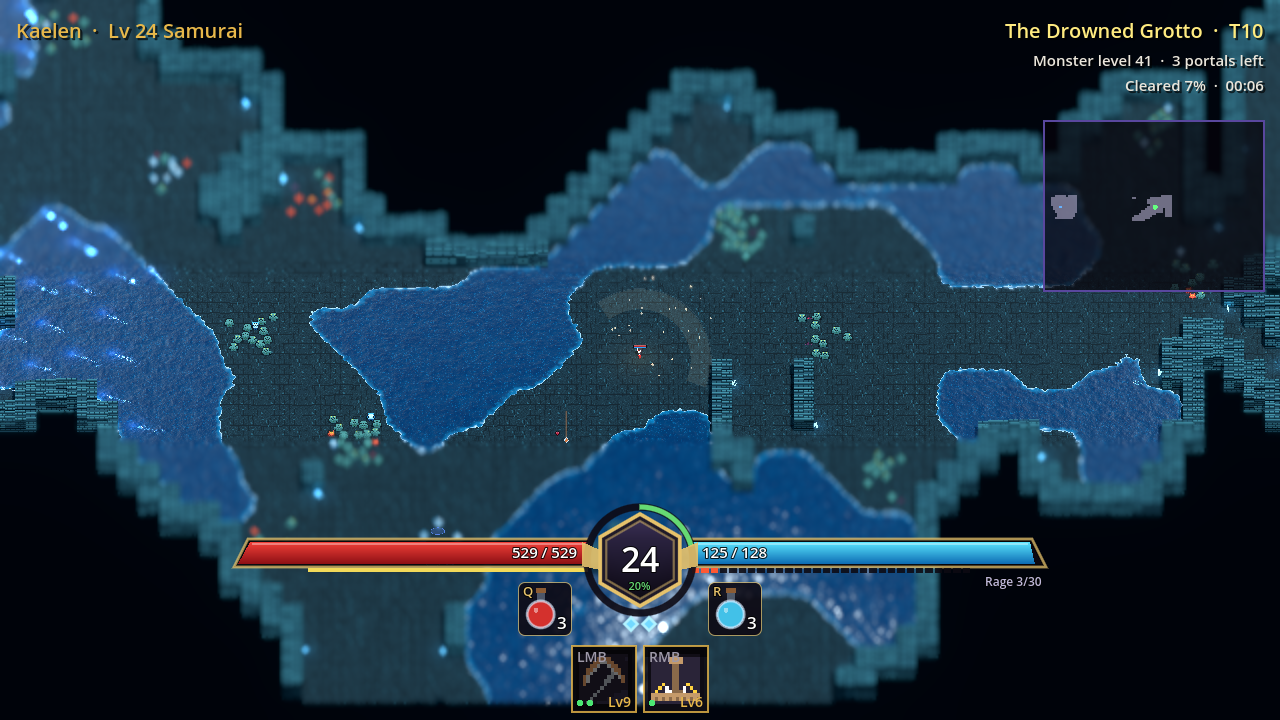
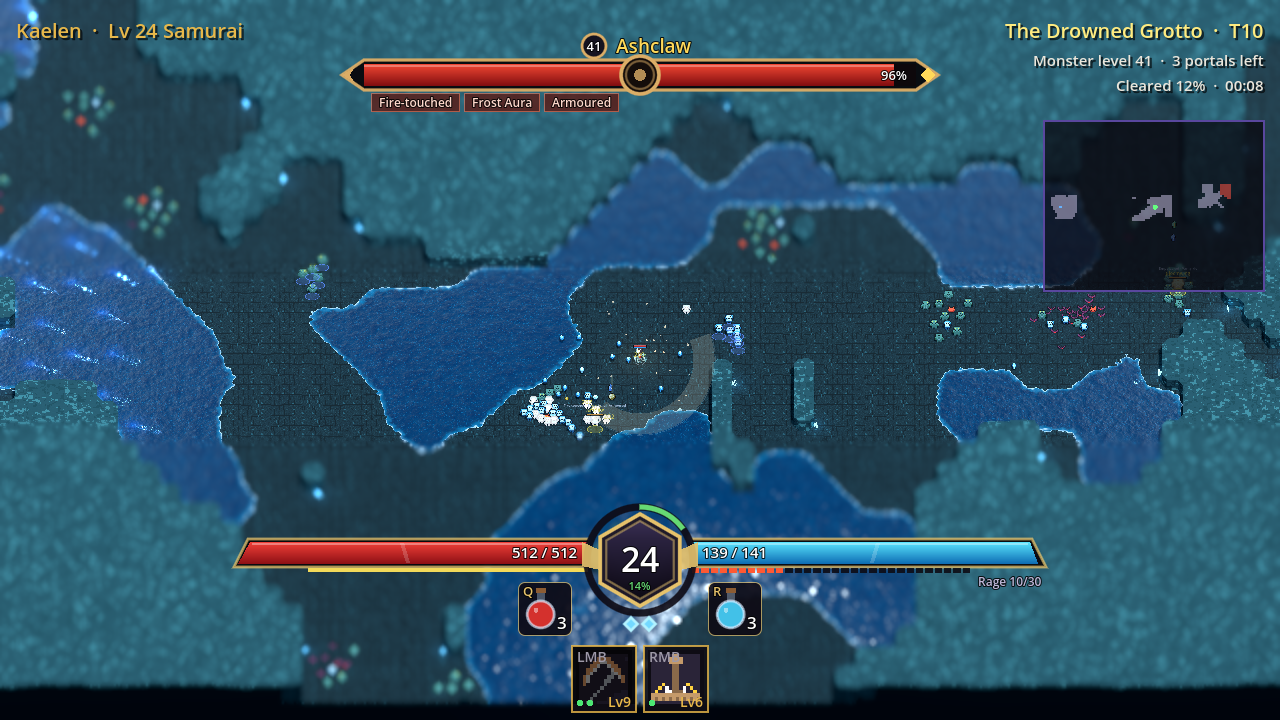
Cave walls: one rock mesh instead of a brick block per cell
The cavern walls read as separate cubes: every wall cell was the brick
block with its own random height, so curves (the boss arena's ring)
were staircases. CaveWalls builds one mesh by marching squares over the
cell centres (straight walls stay on the cell edge, corners are cut on
the diagonal), with heights from a continuous noise field and a
world-space rock shader using each theme's wall palette. Every non-floor
cell of the map is rock, so the black pits inside the rock are gone.
Room layouts keep their bricks. RunCapture --only=caves also shoots the
arena entrance.

Claude-Session: https://claude.ai/code/session_017oVxMuiyGo7J29bWNRcSYW

diff --git a/scripts/View3D/VoxelStage.cs b/scripts/View3D/VoxelStage.cs
@@ -244,7 +244,6 @@ public partial class VoxelStage : Node3D
         var liquidCells = new Dictionary<Vector2I, Transform3D>();
         var floorCells = new Dictionary<Vector2I, Vector3>();
         var wallCells = new HashSet<Vector2I>();
-        var heights = Caverns ? new FastNoiseLite { Seed = 7, Frequency = 0.12f } : null;
         foreach (Vector2I cell in map.GetUsedCells(0))
         {
             Vector2I atlas = map.GetCellAtlasCoords(0, cell);
@@ -266,15 +265,23 @@ public partial class VoxelStage : Node3D
             }
 
             Transform3D placed = new(basis, at);
-            if (piece == "wall" && heights is not null)
+            if (piece == "wall" && Caverns)
             {
-                // Cave rock: uneven heights (smooth swells plus a little jitter per block).
-                float jitter = ((cell.X * 73856093) ^ (cell.Y * 19349663)) % 100 / 100f;
-                float rise = 0.72f + 0.6f * (heights.GetNoise2D(cell.X, cell.Y) * 0.5f + 0.5f) + 0.12f * Mathf.Abs(jitter);
-                placed = new Transform3D(basis.Scaled(new Vector3(1f, rise, 1f)), at);
+                // Cave rock is one mesh (CaveWalls, built below), not a block per
+                // cell; the cell gets a floor under it for the chamfered corners.
+                string under = $"floor{Mathf.Abs(cell.X * 7 + cell.Y * 13) % 2}";
+                if (!byPiece.TryGetValue(under, out List<Transform3D>? unders))
+                {
+                    byPiece[under] = unders = new List<Transform3D>();
+                }
+
+                unders.Add(placed);
+            }
+            else
+            {
+                list.Add(placed);
             }
 
-            list.Add(placed);
             if (piece.StartsWith("floor"))
             {
                 floorCells[cell] = at;
@@ -301,6 +308,11 @@ public partial class VoxelStage : Node3D
 
                 beds.Add(new Transform3D(basis, at));
             }
+        }
+
+        if (Caverns && wallCells.Count > 0 && pieces.TryGetValue("wall", out Mesh? rockSource))
+        {
+            created.Add(AddCaveRock(map, wallCells, rockSource));
         }
 
         foreach ((string piece, List<Transform3D> transforms) in byPiece)
@@ -485,7 +497,7 @@ public partial class VoxelStage : Node3D
         {
             foreach (Node n in old)
             {
-                if (n is MultiMeshInstance3D mm && mm.Multimesh?.Mesh is ArrayMesh mesh)
+                if (((n as MultiMeshInstance3D)?.Multimesh?.Mesh ?? (n as MeshInstance3D)?.Mesh) is ArrayMesh mesh)
                 {
                     for (int s = 0; s < mesh.GetSurfaceCount(); s++)
                     {
@@ -501,6 +513,68 @@ public partial class VoxelStage : Node3D
         }
 
         BuildTerrain(map);
+    }
+
+    /// <summary>
+    /// A cavern's walls as one rock mesh (<see cref="CaveWalls"/>, docs/design/art-pipeline.md
+    /// -> "Cave walls"): heights from a continuous noise field around the tile wall's
+    /// height, coloured by voxel_rock.gdshader from the tileset wall's own palette
+    /// (its darkest, middle and lightest colours), so each theme keeps its stone.
+    /// </summary>
+    private MeshInstance3D AddCaveRock(TileMap map, HashSet<Vector2I> wallCells, Mesh wallMesh)
+    {
+        Vector3 origin = Ground(map.ToGlobal(map.MapToLocal(Vector2I.Zero)));
+        Vector3 ex = Ground(map.ToGlobal(map.MapToLocal(Vector2I.Right))) - origin;
+        Vector3 ey = Ground(map.ToGlobal(map.MapToLocal(Vector2I.Down))) - origin;
+        float tileMeters = map.TileSet.TileSize.X * map.GlobalScale.X / PixelsPerMeter;
+        float baseHeight = Mathf.Max(0.5f, wallMesh.GetAabb().End.Y) * tileMeters;
+        var swell = new FastNoiseLite { Seed = 7, Frequency = 0.12f };
+        var grain = new FastNoiseLite { Seed = 11, Frequency = 0.6f };
+        float Height(Vector2 p) =>
+            baseHeight * (0.75f + 0.55f * (swell.GetNoise2D(p.X, p.Y) * 0.5f + 0.5f) + 0.1f * grain.GetNoise2D(p.X, p.Y));
+
+        // Every cell of the map's rectangle that is not open ground is rock — the
+        // empty cells the rasteriser leaves deep inside the rock too, which used to
+        // show as black pits — so the cave reads as carved out of one mass.
+        var open = new HashSet<Vector2I>(map.GetUsedCells(0));
+        open.ExceptWith(wallCells);
+        Rect2I bounds = map.GetUsedRect();
+        var rock = new HashSet<Vector2I>(wallCells);
+        for (int x = bounds.Position.X; x < bounds.End.X; x++)
+        {
+            for (int y = bounds.Position.Y; y < bounds.End.Y; y++)
+            {
+                var c = new Vector2I(x, y);
+                if (!open.Contains(c))
+                {
+                    rock.Add(c);
+                }
+            }
+        }
+
+        ArrayMesh mesh = CaveWalls.Build(rock, p => origin + ex * p.X + ey * p.Y, Height);
+
+        var palette = new List<Color>();
+        for (int s = 0; s < wallMesh.GetSurfaceCount(); s++)
+        {
+            if (wallMesh.SurfaceGetMaterial(s) is BaseMaterial3D bm)
+            {
+                palette.Add(bm.AlbedoColor);
+            }
+        }
+
+        palette.Sort((a, b) => a.Luminance.CompareTo(b.Luminance));
+        Color mid = palette.Count > 0 ? palette[palette.Count / 2] : _wallColor;
+        var material = new ShaderMaterial { Shader = GD.Load<Shader>("res://resources/shaders/voxel_rock.gdshader") };
+        material.SetShaderParameter("albedo", mid);
+        material.SetShaderParameter("albedo_dark", palette.Count > 0 ? palette[0] : mid.Darkened(0.4f));
+        material.SetShaderParameter("albedo_light", palette.Count > 0 ? palette[^1] : mid.Lightened(0.25f));
+        mesh.SurfaceSetMaterial(0, material);
+        _wallMaterials.Add(material);
+        _wallColor = mid;
+        var instance = new MeshInstance3D { Mesh = mesh, Name = "Terrain_rock", CastShadow = GeometryInstance3D.ShadowCastingSetting.On };
+        World.AddChild(instance);
+        return instance;
     }
 
     /// <summary>Copies the wall mesh with the dithering wall shader on every colour surface.</summary>

diff --git a/scripts/View3D/CaveWalls.cs b/scripts/View3D/CaveWalls.cs
@@ -1,0 +1,156 @@
+#nullable enable
+using System;
+using System.Collections.Generic;
+using Godot;
+
+namespace ArpgGame.View3D;
+
+/// <summary>
+/// One continuous rock mesh for a cavern's walls — docs/design/art-pipeline.md ->
+/// "Cave walls". The tile walls were a brick block per cell with its own height,
+/// so curves (the boss arena's ring above all) read as a staircase of separate
+/// cubes. Here the wall cells go through marching squares over the cell centres:
+/// a straight wall still ends exactly on the cell edge (where its collision is),
+/// a convex corner is cut on the diagonal and an inside corner filled, so a
+/// curve becomes one chamfered face. Heights come from a continuous field
+/// (shared corners, no steps), and the rock shader colours it in world space,
+/// so there are no seams per block.
+/// </summary>
+public static class CaveWalls
+{
+    /// <summary>
+    /// Builds the mesh. <paramref name="ground"/> maps fractional cell coordinates
+    /// (cell centres at integers) to a ground point; <paramref name="height"/>
+    /// gives the rock's height there. Cells outside <paramref name="walls"/> are open.
+    /// </summary>
+    public static ArrayMesh Build(HashSet<Vector2I> walls, Func<Vector2, Vector3> ground, Func<Vector2, float> height)
+    {
+        var st = new SurfaceTool();
+        st.Begin(Mesh.PrimitiveType.Triangles);
+        if (walls.Count == 0)
+        {
+            return new ArrayMesh();
+        }
+
+        int minX = int.MaxValue, minY = int.MaxValue, maxX = int.MinValue, maxY = int.MinValue;
+        foreach (Vector2I c in walls)
+        {
+            minX = Math.Min(minX, c.X);
+            minY = Math.Min(minY, c.Y);
+            maxX = Math.Max(maxX, c.X);
+            maxY = Math.Max(maxY, c.Y);
+        }
+
+        // Corners of a square, in order around it: (0,0) (1,0) (1,1) (0,1).
+        Vector2I[] offsets = { new(0, 0), new(1, 0), new(1, 1), new(0, 1) };
+        var poly = new List<(Vector2 P, bool Mid)>(8);
+        for (int x = minX - 1; x <= maxX; x++)
+        {
+            for (int y = minY - 1; y <= maxY; y++)
+            {
+                var origin = new Vector2I(x, y);
+                int count = 0;
+                for (int i = 0; i < 4; i++)
+                {
+                    if (walls.Contains(origin + offsets[i]))
+                    {
+                        count++;
+                    }
+                }
+
+                if (count == 0)
+                {
+                    continue;
+                }
+
+                // The wall part of this square: walk its corners, keeping wall corners
+                // and the midpoints of edges where wall meets open. Every case comes out
+                // convex (a diagonal pair joins into a hexagon: the rock stays one piece).
+                poly.Clear();
+                for (int i = 0; i < 4; i++)
+                {
+                    Vector2I a = origin + offsets[i];
+                    Vector2I b = origin + offsets[(i + 1) % 4];
+                    bool wa = walls.Contains(a);
+                    if (wa)
+                    {
+                        poly.Add((a, false));
+                    }
+
+                    if (wa != walls.Contains(b))
+                    {
+                        poly.Add(((Vector2)(a + b) / 2f, true));
+                    }
+                }
+
+                Vector2 centre = Vector2.Zero;
+                foreach ((Vector2 p, _) in poly)
+                {
+                    centre += p;
+                }
+
+                centre /= poly.Count;
+                Vector3 centre3 = ground(centre);
+
+                // Top: a fan, each triangle lit flat (faceted rock).
+                for (int i = 1; i < poly.Count - 1; i++)
+                {
+                    Vector3 p0 = Top(poly[0].P);
+                    Vector3 p1 = Top(poly[i].P);
+                    Vector3 p2 = Top(poly[i + 1].P);
+                    Vector3 n = (p1 - p0).Cross(p2 - p0).Normalized();
+                    if (n.Y < 0f)
+                    {
+                        n = -n;
+                    }
+
+                    Tri(st, p0, p1, p2, n);
+                }
+
+                // Sides: every edge between two midpoints is a stretch of contour.
+                for (int i = 0; i < poly.Count; i++)
+                {
+                    (Vector2 a, bool am) = poly[i];
+                    (Vector2 b, bool bm) = poly[(i + 1) % poly.Count];
+                    if (!am || !bm)
+                    {
+                        continue;
+                    }
+
+                    Vector3 ga = ground(a);
+                    Vector3 gb = ground(b);
+                    Vector3 along = gb - ga;
+                    var n = new Vector3(along.Z, 0f, -along.X).Normalized();
+                    if (n.Dot((ga + gb) / 2f - centre3) < 0f)
+                    {
+                        n = -n;
+                    }
+
+                    Vector3 ta = Top(a);
+                    Vector3 tb = Top(b);
+                    Tri(st, ga, gb, tb, n);
+                    Tri(st, ga, tb, ta, n);
+                }
+            }
+        }
+
+        return st.Commit();
+
+        Vector3 Top(Vector2 p) => ground(p) + new Vector3(0f, height(p), 0f);
+    }
+
+    private static void Tri(SurfaceTool st, Vector3 a, Vector3 b, Vector3 c, Vector3 n)
+    {
+        // Wind each triangle so its front faces along the normal.
+        if ((b - a).Cross(c - a).Dot(n) > 0f)
+        {
+            (b, c) = (c, b);
+        }
+
+        foreach (Vector3 v in new[] { a, b, c })
+        {
+            st.SetNormal(n);
+            st.AddVertex(v);
+        }
+    }
+}

diff --git a/scripts/tools/RunCapture.cs b/scripts/tools/RunCapture.cs
@@ -622,6 +622,16 @@ public partial class RunCapture : Node
                 await Snap($"cave-{name}-liquid.png");
             }
 
+            // The boss arena's entrance: the wall ring curves around the gate.
+            if (reality.Raster.Gate.Count > 0)
+            {
+                Vector2I g = reality.Raster.Gate[reality.Raster.Gate.Count / 2];
+                Vector2 away = ((Vector2)(g - reality.Raster.BossCell)).Normalized();
+                reality.Player.GlobalPosition = RasterLayout.World(g) + away * 120f;
+                await Wait(2.0f);
+                await Snap($"cave-{name}-gate.png");
+            }
+
             var camera = reality.Player.GetNode<Camera2D>("Camera2D");
             reality.Player.GlobalPosition = RasterLayout.World(middle);
             Vector2 zoom = camera.Zoom;

diff --git a/CLAUDE.md b/CLAUDE.md
@@ -44,7 +44,7 @@ Godot game project. This file orients any agent (or future-you) working here.
 - `scripts/run_all_tests.sh [filter]` — builds C#, runs every `scenes/tests/*.tscn` headless, judges by the `RESULT:` line (never by exit codes or absence of FAIL), kills leftovers between runs.
 - `scripts/autoplay.sh --runs=3 [--skill=spark] [--report=30]` — the autoplay bot plays full runs headless at ~3× speed for balance work; lines are mirrored to `user://autoplay.log` (stdout is block-buffered). `--mode=reality --class=warrior|rogue|arcanist --tier=1 [--level=N|auto] [--gear=typical|none] [--layouts=id,id] --runs=6` plays Altered Realities back to back with an in-memory character (the real profile is untouched); `--gear=typical` (default) makes it the reference character of `MonsterScaling` (gems, supports, ascendancy, rare gear for the tier) and each reality logs a `ttk` line (time to kill per monster rarity) — the numbers the monster life table is calibrated against.
 - Tests that can hang at shutdown mirror their lines to `user://test_results/<Name>.txt`; `run_all_tests.sh` reads that file too (see `EndgameSmokeTest`).
-- `scenes/tools/RunCapture.tscn` — scripted windowed run that saves devlog/PR screenshots (menu, skill pick, mid-run, level-up, pause, both bosses and their mechanics, results). `-- --only=endgame` captures character select/create, hideout, Mirror, skills/tree/altar panels, all three realities and Nereth's mechanics with demo characters; `--only=crafting` the merchant, the inventory's Crafting tab and seal, the bench tabs and the tooltip with/without Alt; `--only=town` the hideout town's quarters, an overview, Ysolde's shop and the three edit-mode tools.; `--only=update` the Rift HUD, power-ups, endless phase and results, Arehucaz, the Mirror jewels and liquids; `--only=caves` each cavern style in game (entrance, liquid, overview), the hideout canal and the loading screen; `--only=layouts` (works headless) top-down sheets of four seeds per cavern style.
+- `scenes/tools/RunCapture.tscn` — scripted windowed run that saves devlog/PR screenshots (menu, skill pick, mid-run, level-up, pause, both bosses and their mechanics, results). `-- --only=endgame` captures character select/create, hideout, Mirror, skills/tree/altar panels, all three realities and Nereth's mechanics with demo characters; `--only=crafting` the merchant, the inventory's Crafting tab and seal, the bench tabs and the tooltip with/without Alt; `--only=town` the hideout town's quarters, an overview, Ysolde's shop and the three edit-mode tools.; `--only=update` the Rift HUD, power-ups, endless phase and results, Arehucaz, the Mirror jewels and liquids; `--only=caves` each cavern style in game (entrance, liquid, the boss arena entrance, overview), the hideout canal and the loading screen; `--only=layouts` (works headless) top-down sheets of four seeds per cavern style.
 - `.github/workflows/release.yml` + `tools/launcher/` — releases and the Windows launcher (see `docs/design/distribution.md`). Every push to `main` publishes a version automatically; a `v*` tag publishes that exact version (cloud sessions can't push tags: the git proxy only allows the session branch). The launcher is a separate .NET Framework 4.8 project (`ArpgGame.csproj` excludes `tools/**`); build it with `dotnet build tools/launcher -c Release`.
 - Launcher art: `cd tools/art && npx tsx launcher.ts` regenerates `tools/launcher/Assets/{background.png,icon.ico}` (embedded in the exe).
 - `tools/art/` — the EasyPixel art pipeline (see `docs/design/art-pipeline.md`): `npm install && npm run setup && npm run build`; `npx tsx voxels.ts` exports the voxel models (`assets/voxels/`) used by the HD-2D view — re-run it (then re-import) whenever sprites or tilesets change.

diff --git a/docs/design/art-pipeline.md b/docs/design/art-pipeline.md
@@ -221,6 +221,38 @@ vulkan`); the Compatibility renderer works but drops shadows, glow and DOF.
 overlays re-projected; per-voxel destructible walls (today walls only shed chips);
 hand-authored voxel props (`slices` mode) for the hideout and realities.
 
+### Cave walls **[IMPLEMENTED 2026-10-15]**
+
+Owner feedback: the cavern walls "don't join up — each block looks like its own
+piece, worst on curves like the boss entrance". They were the tileset's brick
+wall block, one per wall cell, each with its own random height: the tops
+stepped, every block drew its own mortar edges, and a diagonal (the arena's
+ring) became a staircase of cubes.
+
+Caverns now build their walls as **one rock mesh** (`CaveWalls`,
+scripts/View3D/CaveWalls.cs; `VoxelStage.AddCaveRock`):
+
+- **Outline by marching squares** over the cell centres. A straight wall still
+  ends exactly on the cell edge, where its collision is; a convex corner is cut
+  on the diagonal and an inside corner filled, so curves read as one chamfered
+  face (the floor is drawn under wall cells for the cut corners). A diagonal
+  pair of rock cells joins into one piece.
+- **Heights from a continuous field** (two noise octaves around the tile wall's
+  height) sampled at the vertices, so neighbouring pieces share their edges —
+  no steps. The tops are lit flat per triangle: faceted rock.
+- **Solid mass**: every cell of the map's rectangle that isn't open ground is
+  rock, including the empty cells deep inside the rock that used to show as
+  black pits.
+- **`voxel_rock.gdshader`** colours it in world space on a 1/8 m grid (the
+  scene's voxel size): blotches of three tones taken from the tileset wall's
+  own palette (darkest, middle, lightest — each theme keeps its stone), darker
+  sides with wavy strata, a lighter top. It keeps the wall dither in front of
+  the player (same uniforms as `voxel_wall.gdshader`).
+
+Room layouts (the introduction, the hideout) keep the brick blocks: built
+walls are supposed to look built. Screenshots: `cave-*-gate.png` (the arena
+entrance), `cave-*-overview.png`.
+
 ## Alternatives considered
 
 - **MCP-driven drawing in the live editor.** The nicer workflow for a human session

diff --git a/docs/devlog/journal.md b/docs/devlog/journal.md
@@ -348,3 +348,7 @@ Three changes, all approved after a round of research (PoE's monster level table
 - **The bot plays the reference character** (`--gear=typical --level=auto`): gems at the right level, supports, ascendancy and a fresh rare set for the tier. It logs time to kill per rarity, so the table is calibrated rather than guessed.
 
 The first table, derived from a paper model, was wrong at both ends: too soft at tier 1 (boss in 19 s) and far too hard from tier 10 (boss 125 s, collapses at 15 and 20). The model hadn't caught that once gems and supports max out around tier 10, only gear keeps the player's damage growing. Two rescaling passes later the Arcanist sits on the targets at tiers 5–20 (rare 5–9 s, boss 39–64 s). Another surprise was armour: with PoE's formula, a target of "25 % against the reference hit" cost melee's smaller hits ~40 %, so the target dropped to 15 %. The Warrior bot is still clearly slower than the Arcanist, a separate class/bot gap.
+
+## 2026-10-15 — Cave walls as one rock
+
+The owner noticed the cavern walls never joined up: each wall cell was the tileset's brick block with its own random height, so curves (the boss arena's ring above all) were staircases of cubes. Caverns now get one rock mesh. Marching squares over the cell centres keeps straight walls on the cell edge (where the collision is) while cutting convex corners on the diagonal and filling inside ones. Heights come from a continuous noise field, so neighbours share their edges, and a world-space rock shader on the 1/8 m voxel grid uses each theme's own wall palette. Filling every non-floor cell of the map with rock also removed the black pits that empty cells left inside the rock. Room layouts keep their bricks. Screenshots: `cave-*-gate.png`, `cave-*-overview.png`.
